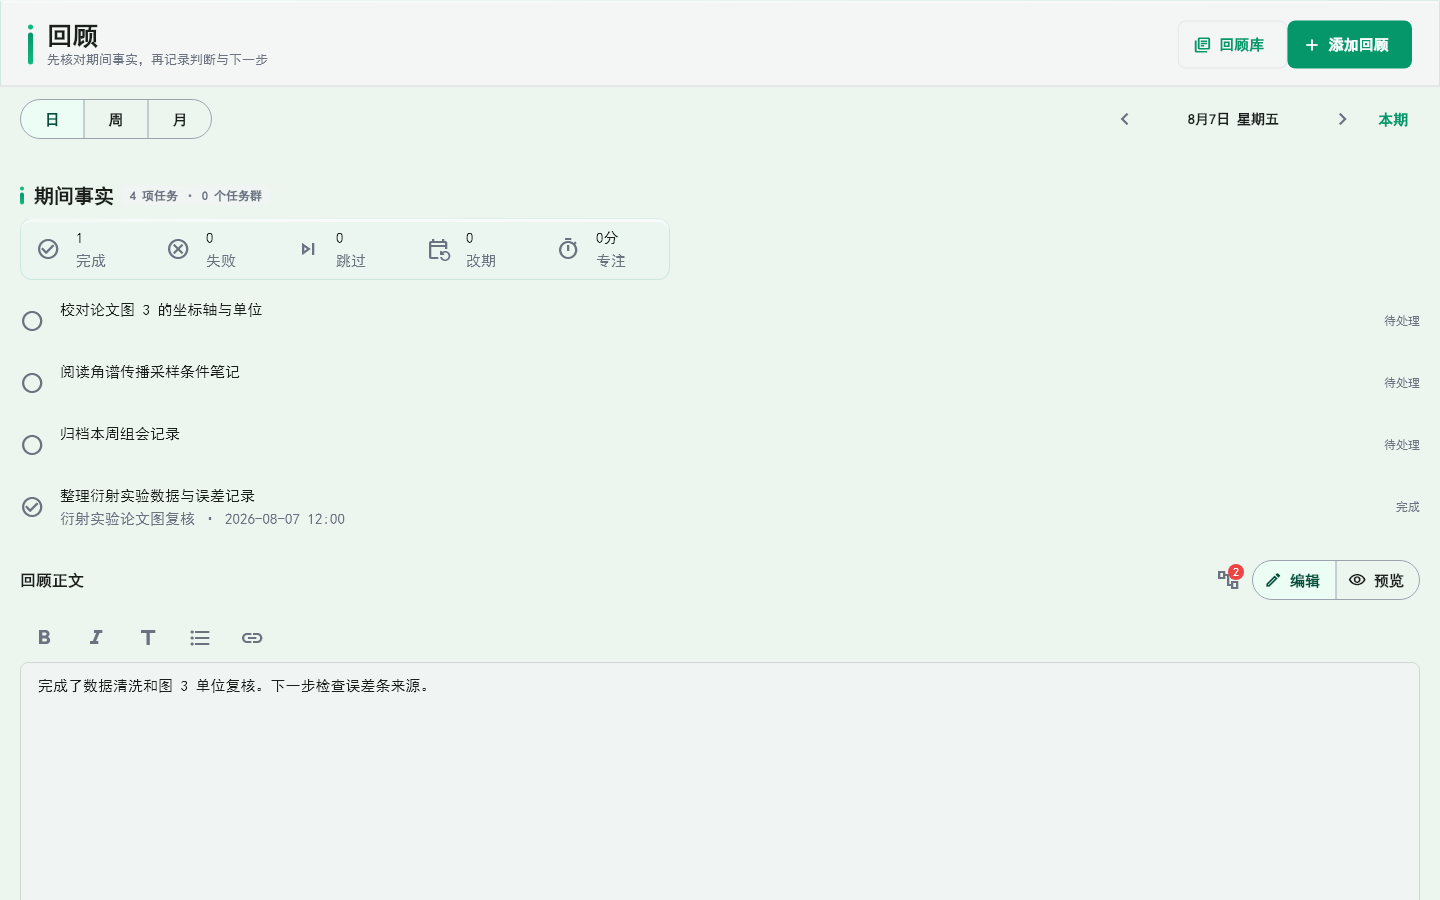
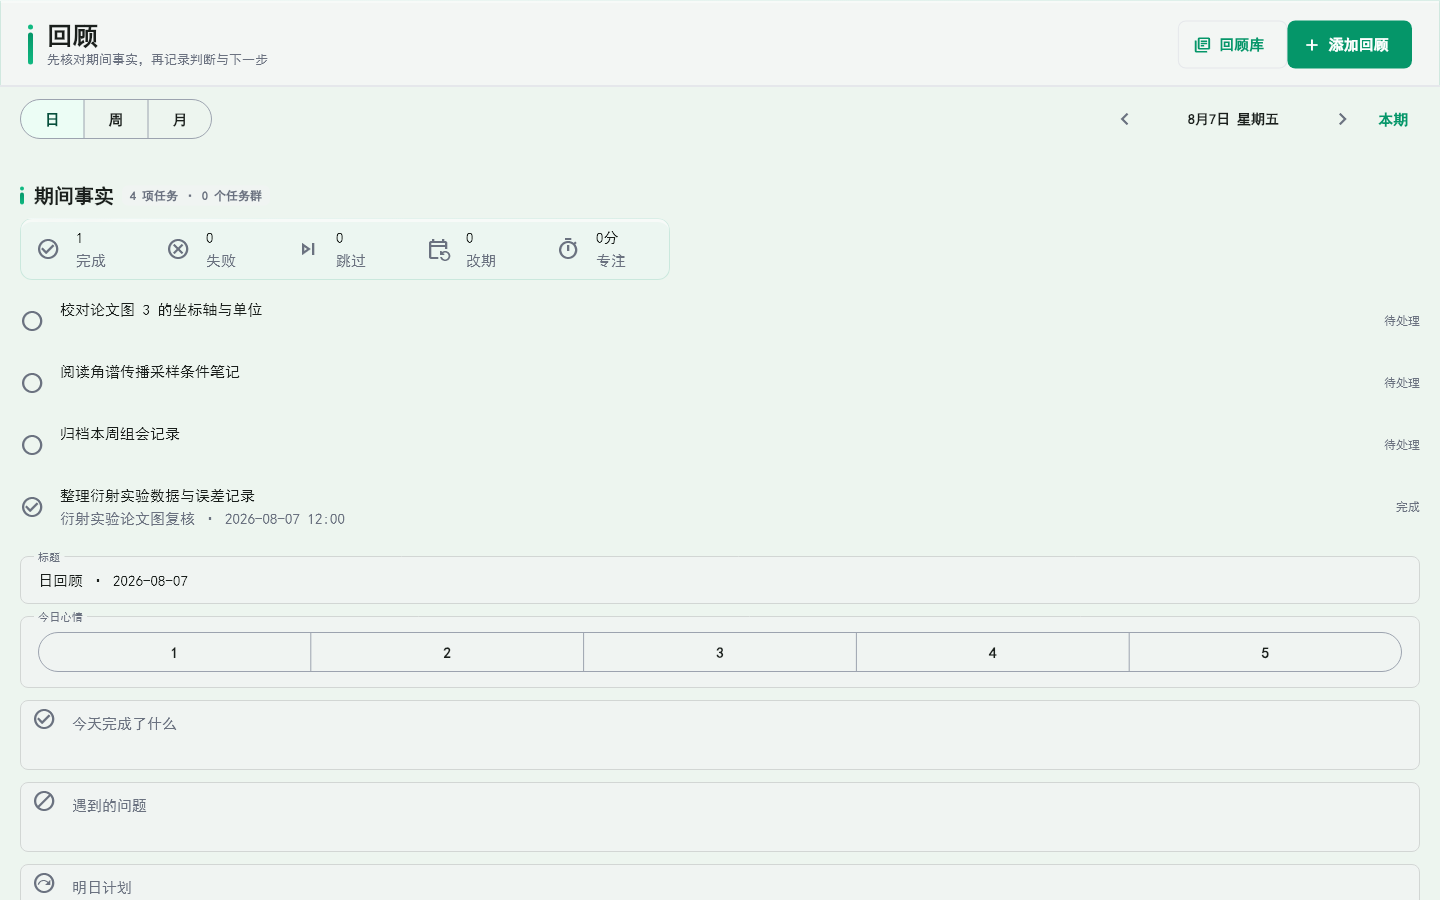
test: cover review and behavior center

diff --git a/test/review_behavior_merge_test.dart b/test/review_behavior_merge_test.dart
@@ -1,0 +1,96 @@
+import 'package:flutter/material.dart';
+import 'package:flutter_test/flutter_test.dart';
+import 'package:intl/date_symbol_data_local.dart';
+import 'package:personal_workbench/core/models/workspace_record.dart';
+import 'package:personal_workbench/core/theme/app_theme.dart';
+import 'package:personal_workbench/data/app_database.dart';
+import 'package:personal_workbench/data/backup_service.dart';
+import 'package:personal_workbench/services/focus_service.dart';
+import 'package:personal_workbench/services/notification_service.dart';
+import 'package:personal_workbench/services/search_service.dart';
+import 'package:personal_workbench/services/share_capture_service.dart';
+import 'package:personal_workbench/services/supabase_sync_service.dart';
+import 'package:personal_workbench/state/workbench_controller.dart';
+import 'package:personal_workbench/ui/pages/behavior_page.dart';
+
+class _MemoryDatabase extends AppDatabase {
+  final records = <String, WorkspaceRecord>{};
+  final metadata = <String, String>{};
+
+  @override
+  Future<List<WorkspaceRecord>> loadRecords({
+    bool includeDeleted = true,
+  }) async => records.values.toList();
+
+  @override
+  Future<String?> readMetadata(String key) async => metadata[key];
+
+  @override
+  Future<void> writeMetadata(String key, String value) async {
+    metadata[key] = value;
+  }
+
+  @override
+  Future<void> saveRecord(
+    WorkspaceRecord record, {
+    bool markDirty = true,
+  }) async {
+    records['${record.kind.name}:${record.id}'] = record;
+  }
+
+  @override
+  Future<void> permanentlyDelete(String id, RecordKind kind) async {
+    records.remove('${kind.name}:$id');
+  }
+}
+
+WorkbenchController _controller(_MemoryDatabase database) =>
+    WorkbenchController(
+      database: database,
+      backupService: BackupService(),
+      searchService: SearchService(),
+      focusService: FocusService(tickInterval: const Duration(hours: 1)),
+      notificationService: NotificationService(),
+      shareCaptureService: ShareCaptureService(),
+      syncService: SupabaseSyncService(null),
+      now: () => DateTime(2026, 8, 10, 10),
+    );
+
+void main() {
+  TestWidgetsFlutterBinding.ensureInitialized();
+  setUpAll(() async {
+    await initializeDateFormatting('zh_CN');
+  });
+
+  testWidgets('behavior center separates ordinary habits from RSIP habits', (
+    tester,
+  ) async {
+    final database = _MemoryDatabase();
+    final controller = _controller(database);
+    addTearDown(controller.dispose);
+    await controller.addRecord(
+      WorkspaceRecord.create(kind: RecordKind.habit, title: '普通习惯'),
+    );
+    await controller.addRecord(
+      WorkspaceRecord.create(
+        kind: RecordKind.habit,
+        title: '国策节点',
+        data: {'protocol': 'rsip', 'rsipActive': true},
+      ),
+    );
+    await tester.pumpWidget(
+      MaterialApp(
+        theme: AppTheme.light(),
+        home: Scaffold(body: BehaviorPage(controller: controller)),
+      ),
+    );
+    await tester.pump();
+    expect(find.text('普通习惯'), findsOneWidget);
+    expect(find.text('国策节点'), findsNothing);
+    await tester.tap(find.text('国策协议'));
+    await tester.pump();
+    expect(find.text('国策节点'), findsWidgets);
+    expect(find.text('普通习惯'), findsNothing);
+    expect(database.metadata['behavior_mode'], 'policies');
+  });
+}

diff --git a/test/visual_golden_test.dart b/test/visual_golden_test.dart
@@ -16,6 +16,7 @@ import 'package:personal_workbench/services/search_service.dart';
 import 'package:personal_workbench/services/share_capture_service.dart';
 import 'package:personal_workbench/services/supabase_sync_service.dart';
 import 'package:personal_workbench/state/workbench_controller.dart';
+import 'package:personal_workbench/ui/pages/behavior_page.dart';
 import 'package:personal_workbench/ui/pages/calendar_page.dart';
 import 'package:personal_workbench/ui/pages/focus_page.dart';
 import 'package:personal_workbench/ui/pages/growth_page.dart';
@@ -554,6 +555,31 @@ void main() {
       GrowthPage(controller: fixture.controller, now: _visualDate),
       size: const Size(412, 915),
       fileName: 'android_growth',
+    );
+  });
+
+  testWidgets('Wide behavior habits', (tester) async {
+    await _pumpGolden(
+      tester,
+      BehaviorPage(
+        controller: fixture.controller,
+        initialMode: BehaviorMode.habits,
+      ),
+      size: const Size(1536, 864),
+      fileName: 'wide_behavior_habits',
+    );
+  });
+
+  testWidgets('Android behavior policies', (tester) async {
+    await _pumpGolden(
+      tester,
+      BehaviorPage(
+        controller: fixture.controller,
+        initialMode: BehaviorMode.policies,
+        showHeader: false,
+      ),
+      size: const Size(412, 915),
+      fileName: 'android_behavior_policies',
     );
   });
 

diff --git a/test/ui_coverage_regression_test.dart b/test/ui_coverage_regression_test.dart
@@ -655,6 +655,20 @@ void main() {
     await tester.pumpAndSettle();
     expect(find.byType(TabBar), findsNothing);
     expect(find.widgetWithText(ListTile, '系统'), findsNothing);
+    expect(find.byKey(const ValueKey('navigation-leaf:diary')), findsNothing);
+    expect(
+      find.byKey(const ValueKey('navigation-group:policies')),
+      findsNothing,
+    );
+    expect(
+      find.byKey(const ValueKey('navigation-group:goals_habits')),
+      findsNothing,
+    );
+    expect(find.byKey(const ValueKey('navigation-leaf:goals')), findsOneWidget);
+    expect(
+      find.byKey(const ValueKey('navigation-leaf:behavior')),
+      findsOneWidget,
+    );
 
     await tester.pumpWidget(const SizedBox.shrink());
     await fixture.controller.setAdvancedFeaturesEnabled(false);
@@ -672,7 +686,7 @@ void main() {
         .cast<NavigationDestination>()
         .map((destination) => destination.label)
         .toList();
-    expect(labels, ['今日', '任务', '回顾', '国策', '设置']);
+    expect(labels, ['今日', '任务', '回顾', '行为', '设置']);
     expect(find.byType(PageHeader), findsNothing);
     expect(find.byType(FloatingActionButton), findsNothing);
     expect(find.byTooltip('全局搜索'), findsOneWidget);

diff --git a/README.md b/README.md
@@ -1,6 +1,6 @@
 # 个人工作台
 
-个人工作台 0.1 是一款面向科研学习与个人项目的本地优先 Flutter 应用。它把“快速收集、项目规划、安排今天、专注执行、知识沉淀、日记记录、目标与习惯回顾”放在一条可验证的工作流中，并融合了 SelfControl 的 Windows 自律限制能力。本轮界面采用“刻度日志”视觉体系：以日期刻度、状态字、时间轴和证据记录组织页面，适合长期使用，不把科研工作包装成游戏化仪表盘。
+个人工作台 0.1 是一款面向科研学习与个人项目的本地优先 Flutter 应用。它把“快速收集、项目规划、安排今天、专注执行、知识沉淀、回顾、目标与行为追踪”放在一条可验证的工作流中，并融合了 SelfControl 的 Windows 自律限制能力。本轮界面采用“刻度日志”视觉体系：以日期刻度、状态字、时间轴和证据记录组织页面，适合长期使用，不把科研工作包装成游戏化仪表盘。
 
 ## 详细使用指南
 
@@ -12,7 +12,7 @@
 
 ## 研究背景
 
-界面借鉴了工作台类产品的任务、项目和多视图组织方式，以及时间块、专注计时、日记和本地优先的实践。应用把首页压缩为“今天需要处理的信息”，将日历、笔记、日记、目标、习惯、回顾和设置放入清晰的导航分组，避免首屏变成统计卡片墙。
+界面借鉴了工作台类产品的任务、项目和多视图组织方式，以及时间块、专注计时、回顾和本地优先的实践。应用把首页压缩为“今天需要处理的信息”，将笔记、回顾、目标、行为和设置放入清晰的导航分组，避免首屏变成统计卡片墙。
 
 ## 项目结构
 
@@ -91,7 +91,7 @@ keyPassword=<本地保存的密钥密码>
 Android 构建脚本会在 `%LOCALAPPDATA%\PersonalWorkbenchBuild\` 下创建指向当前源码的纯 ASCII 目录联接，再从该路径构建，规避中文工作区路径导致的 Gradle/MSBuild 编码问题。脚本还会把 Gradle 输出临时放到 ASCII 目录，并复制 APK 回 `build/app/outputs/flutter-apk/`；Release 仅在签名验证通过后复制。脚本不会复制、移动或覆盖源码；如需强制清理构建缓存，可增加 `-Clean` 参数。Android 脚本使用本机缓存的 Gradle 8.14 离线构建；首次使用前若缓存不存在，需要先在网络可用时运行一次 Gradle 下载。
 
 Android 使用 Material 3 底部导航，读取与桌面端一致的 v3 记录。全局“快速新增”可以写入任务、笔记、今日记录或链接；定时专注使用 Android 系统通知。
-Windows 侧栏按“计划 / 执行 / 沉淀 / 回顾 / 系统”分组；“执行”下可直接进入“专注”或“自律”。Android 保留底部导航，并在“更多”抽屉中提供同样的分组入口。Android 可以查看、编辑和同步限制规则，但明确不会结束 Windows 进程或修改 hosts。
+Windows 侧栏按真实页面组织层级：任务和项目展开后显示各自的页面，回顾展开后显示日、周、月回顾；专注、自律、目标和行为是直接入口。Android 保留底部导航，并在“更多”抽屉中提供同样的页面树。Android 可以查看、编辑和同步限制规则，但明确不会结束 Windows 进程或修改 hosts。
 
 ## 核心功能
 
@@ -109,7 +109,7 @@ Windows 侧栏按“计划 / 执行 / 沉淀 / 回顾 / 系统”分组；“执
 
 ## 仿真参数说明
 
-本项目当前不是光学仿真程序，没有波长、采样间隔、焦距或数值孔径等物理参数。科研记录可以把实验参数写入任务、笔记或日记正文，并用标签和项目关联；原始实验数据仍应保存在独立的科研数据目录中。
+本项目当前不是光学仿真程序，没有波长、采样间隔、焦距或数值孔径等物理参数。科研记录可以把实验参数写入任务、笔记或回顾正文，并用标签和项目关联；原始实验数据仍应保存在独立的科研数据目录中。
 
 ## 主要脚本说明
 
@@ -136,7 +136,7 @@ flutter run -d android `
   --dart-define=SUPABASE_ANON_KEY=your-publishable-key
 ```
 
-在 Supabase SQL Editor 执行 `supabase/migrations/001_workspace_records.sql`。该表启用 RLS，用户只能读写自己的记录。首版不是端到端加密；日记和笔记同步冲突时，会在本地保留冲突副本。
+在 Supabase SQL Editor 执行 `supabase/migrations/001_workspace_records.sql`。该表启用 RLS，用户只能读写自己的记录。首版不是端到端加密；回顾和笔记同步冲突时，会在本地保留冲突副本。旧日记记录仍保留在兼容数据中，并在日回顾中按需迁移。
 
 ## 备份与恢复
 
